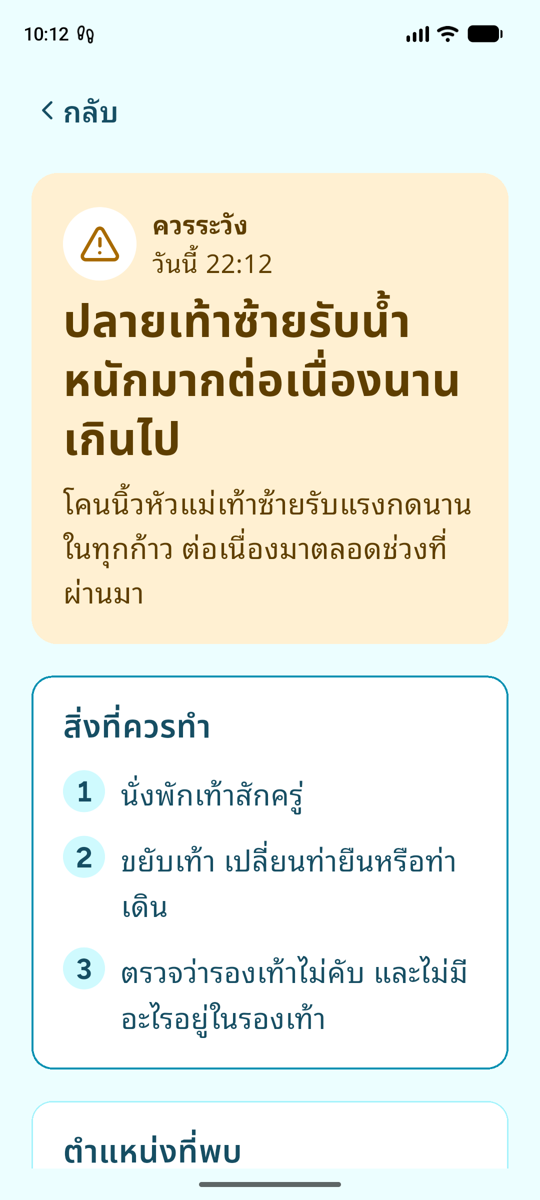
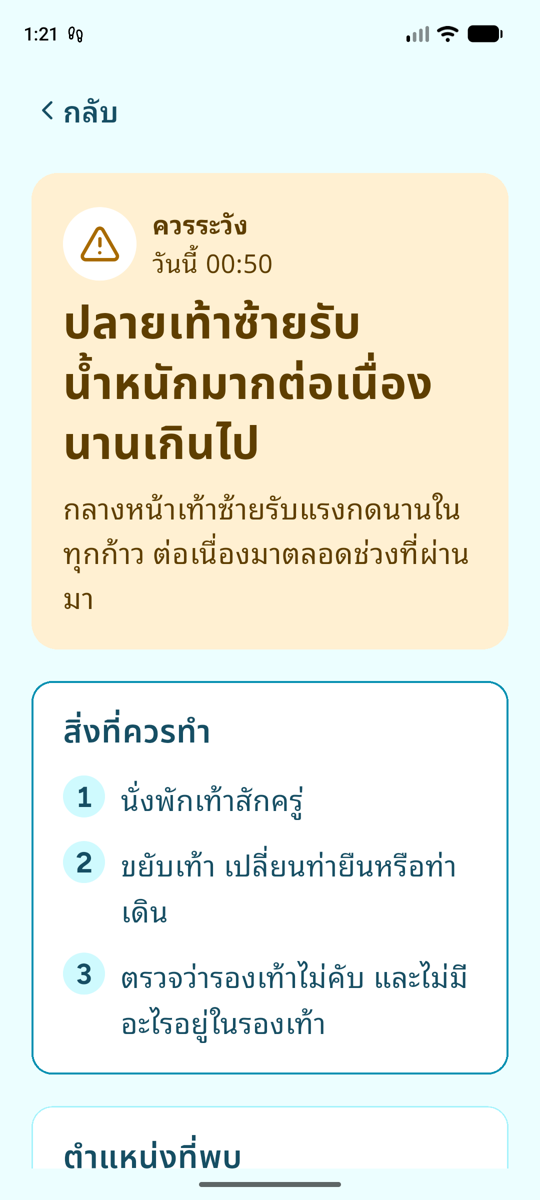
S10: docs for the title follow-up (BACKLOG 60/69, DESIGN-SPEC decision 22, mobile/CLAUDE.md "Thai line breaks"); report 041: cause of the "รับน้ำ / หนัก" screenshot, every title split found, guard extended, release 1.0.0+6 rebuilt from 3789261 (SHA-256 5d9e3b13…bcfbc), smoke check also looks at the 

diff --git a/docs/reports/041-flutter-wrapup.md b/docs/reports/041-flutter-wrapup.md
@@ -31,7 +31,13 @@ Plan file: `~/.claude/plans/s10-s10-wrap-up-before-rippling-moon.md`.
 - **Docs:** PROGRESS, mobile/CLAUDE.md, SESSIONS (status rows, schedule,
   S10b row and entry, SR checklist), DESIGN-SPEC §6, §11.9, decisions 22
   and 32, DATA-CONTRACT addendum.
-- **Release 1.0.0+6** built from 4885b9b. It passed
+- **Follow-up 2026-11-04 (3789261):** short words in titles kept whole
+  too. The first screenshots showed "รับน้ำ / หนักมาก" in the PTI title;
+  they predated 537f591, and a retake on 4885b9b showed it fixed. Listing
+  every title line break found other splits ("อุ่น / กว่า", "ปลาย /
+  เท้า", "เกิน / ไป", "เชื่อม / ต่อ", "ค่อน / ข้าง", "เหลือ / น้อย"),
+  now joined. The guard covers every title style.
+- **Release 1.0.0+6** rebuilt from 3789261. It passed
   `check_release_resources.sh` and the model slot is empty.
 - **Note 10 smoke check: waiting on user.** Ask before plugging in (below).
 
@@ -49,6 +55,7 @@ Plan file: `~/.claude/plans/s10-s10-wrap-up-before-rippling-moon.md`.
 | 1858d17, 537f591 | Found on the emulator: "ต่อ / เนื่อง", "รับน้ำ / หนัก" and "จุด / เดียว" joined in the pressure alert copy and Home lines; goldens |
 | e53ddde | Docs wording for those |
 | 4885b9b | Spec review fixes 1–3 (below); DESIGN-SPEC §11.9 one sentence |
+| 3789261 | Titles (follow-up, below): `keepTogetherInTitle` + `titleParts`, `FootZone/FootRegion.titleTh`; "อุ่นกว่า", "เกินไป", "ค่อนข้าง", "เชื่อมต่อ", "เหลือน้อย" joined (also "อุ่นกว่า"/"เกินไป" in the same alerts' detail and Home lines, and the My feet banners); the guard covers every title style and fails a break inside a short table phrase; goldens (25 + 13) |
 
 ## Thai line breaks: how and what was learned
 
@@ -61,10 +68,10 @@ Plan file: `~/.claude/plans/s10-s10-wrap-up-before-rippling-moon.md`.
   งมากตอนเดิน". A joiner inside a word cuts the Thai around it into pieces
   the dictionary cannot read, so Flutter falls back to breaking by
   character. A joined phrase wider than the line does the same.
-  - Site names in titles (28–32 px, up to 410 px wide at 1.88×) therefore
-    stay plain.
-  - So do names that are a whole `Text` on their own: rows, table cells,
-    chart labels, TalkBack labels.
+  - So a long name joined whole cannot go in a title (see "Titles"
+    below).
+  - Names that are a whole `Text` on their own stay plain: rows, table
+    cells, chart labels, TalkBack labels.
 - **Guard test:** `copy only breaks lines between words`.
   - It runs every alert copy (8 codes × 2 feet × 8 sites) at widths
     260–400 px and scales 1.0, 1.3 and 1.88.
@@ -99,12 +106,52 @@ Plan file: `~/.claude/plans/s10-s10-wrap-up-before-rippling-moon.md`.
   phrase to `thaiWords`, wrap it where the copy is composed, and add it to
   `thai_line_break_test.dart`.
 
+### Titles (follow-up 2026-11-04, 3789261)
+
+- **Cause of the user's finding:** `emu-alert-detail-pti.png` showed
+  "ปลายเท้าซ้ายรับน้ำ / หนักมาก…". It was taken at 22:12 on 2 Nov, before
+  537f591 (22:19) joined "น้ำหนัก". Retaken on 4885b9b: "ปลายเท้าซ้ายรับ /
+  น้ำหนักมากต่อเนื่อง / นานเกินไป". The word-boundary guard could not have
+  caught it: "น้ำ|หนัก" is two words to the dictionary.
+- **Every title line break listed** (each alert code × foot × site, in
+  `pageTitle`, `bodyStrong` and `button`, 260–400 px, scales 1.0/1.3/1.88).
+  Splits inside a short word found and joined: "อุ่น / กว่า" (TEMP_DELTA),
+  "ปลาย / เท้า" and "ส้น / เท้า" (region names, plain in titles until
+  now), "เกิน / ไป" (PTI, LOAD_CONCENTRATION), "ค่อน / ข้าง"
+  (PRESSURE_WATCH), "เชื่อม / ต่อ" (DEVICE_LOST), "เหลือ / น้อย"
+  (BATTERY_LOW), "ด้าน / นอก"; in My feet, "เท้า / ซ้าย" in
+  "ยังไม่ได้รับข้อมูลเท้าซ้าย".
+- **Long names in titles:** joined whole they are wider than the line at
+  1.88× (Flutter then breaks them by letter: "โคนนิ้วหัวแม่เ / ท้า",
+  "แผ่นรองเท้ / า", found by the guard). `keepTogetherInTitle` joins their
+  parts instead, so they break only at "โคน / นิ้วหัวแม่เท้า", "ขอบเท้า /
+  ด้านนอก", "ส้นเท้า / ด้านนอก". "แผ่นรองเท้า" stays plain: "รองเท้า" is
+  one word, so it can only break as "แผ่น / รองเท้า". A side stays a
+  separate word ("ปลายเท้า / ซ้าย"): "ปลายเท้าซ้าย" joined is wider than
+  260 px at 1.88×.
+- **Guard extended** (`copy only breaks lines between words`):
+  - every alert title in the alert detail (`pageTitle` 28), Alerts list
+    (`bodyStrong` 18) and My feet banner (`button` 18, 216–340 px: the
+    banner text is the screen less 144 dp, 216 on a 360 dp phone, 267 on
+    the Note 10); Home's status titles (`statusTitle` 32) and the My feet
+    banner titles, including the Temperature one for every site;
+  - titles must also never break inside a short (≤ 3-word) `thaiWords`
+    phrase, read word by word, longest first; a control (the PTI title
+    without joiners) proves it catches "รับน้ำ / หนัก".
+- **Same-alert body lines:** "อุ่นกว่า" and "เกินไป" are joined in the
+  TEMP_DELTA detail and the PTI / LOAD_CONCENTRATION Home lines too, as
+  "น้ำหนัก" is. Other body copy is unchanged (S10b).
+- Visible copy unchanged (joiners are invisible). Goldens: 25 changed at
+  the title step, 13 at the body step. Reviewed side by side: the fixed
+  breaks (e.g. TEMP_DELTA at 200 %: "เท้าขวา / อุ่นกว่า / เท้าซ้าย") and
+  the ~2 px joiner shift; nothing else.
+
 ## Checks
 
 | Check | Result |
 |---|---|
 | `flutter analyze` | No issues |
-| `flutter test` | **1107 passed** (166 goldens) |
+| `flutter test` | **1107 passed** (166 goldens), again at 3789261 |
 | Goldens reviewed | Changed: alert details (all), alerts list, Home (100 / 130xl / 200), My feet watch / temp_rest. Text and line breaks reviewed side by side against main; the only change besides the fixed breaks is the ~2 px line shift above. New: 22 goldens at 130 % |
 | `thresholds.json` copies | Byte-identical (`cmp`) |
 | FLUTTER-PLAN §6 rule 12 | `quietNotifyMin` read from thresholds; no literal |
@@ -115,7 +162,7 @@ Plan file: `~/.claude/plans/s10-s10-wrap-up-before-rippling-moon.md`.
 | Model slot | `assets/models/` holds only README.md |
 | Emulator, quiet window (`MOCK=watch`, sound on) | `pressurePeak #5 (sound)`, then `pressurePti #9 (silent)`, `#10 (silent)` for the same foot within 2 min. Tray shows all three |
 | Emulator, notification | Header "SmartInsole", colour `0xff155e75`; status-bar icons are footprints; launcher icon is the new footprints icon. The shade's round header icon still showed the Flutter logo: SystemUI's cached icon from the earlier install (the debug APK's `application-icon-*` all resolve to `mipmap-anydpi-v26/ic_launcher.xml`). The Note 10 check confirms it on a clean install-over |
-| Emulator, screens | Home at "ใหญ่", Alerts list, PTI alert detail, My feet Pressure: site names whole, no split words in the joined phrases (screenshots below) |
+| Emulator, screens | Home at "ใหญ่", Alerts list, PTI alert detail, My feet Pressure: site names whole, no split words in the joined phrases (screenshots below). Alerts list and PTI detail retaken at 3789261 (2026-11-04): title "ปลายเท้าซ้ายรับ / น้ำหนักมากต่อเนื่อง / นานเกินไป" |
 
 Note on the emulator: its saved Settings had **sound off** from an earlier
 session, so the first run's notifications were all silent. That is
@@ -132,12 +179,13 @@ taps timed out on this build, so it was not opened on the emulator).
 
 | Build | Version | SHA-256 | Size | Built from |
 |---|---|---|---|---|
[2 lines of base64/hex data omitted]
 
-- Two earlier +6 builds were never installed anywhere and are replaced by
-  the build above: one from f1736bf (`5a5bb361…3e4f`), before the
-  emulator copy fixes, and one from e53ddde (`d8fb5ed2…4259`), before the
-  spec-review fixes.
+- Three earlier +6 builds were never installed anywhere and are replaced
+  by the build above: from f1736bf (`5a5bb361…3e4f`), before the emulator
+  copy fixes; from e53ddde (`d8fb5ed2…4259`), before the spec-review
+  fixes; and from 4885b9b (`76b18d3f…3552`), before the title follow-up.
+- aapt badging: label `SmartInsole`, versionCode 6, versionName 1.0.0.
 - `tool/check_release_resources.sh` passed (`ic_stat_foot_check`,
   `ic_stat_foot_alert`). `assets/models/` holds only its README.
 - **Not installed yet:** waiting on the smoke check.
@@ -155,8 +203,12 @@ decisions 22 and 32, Appendix A; DATA-CONTRACT §8; FLUTTER-PLAN §6 rules 5,
 | 3 | minor | `mobile/lib/notify/alert_notification_service.dart:139` | DESIGN-SPEC §11.9 "of the last one that **sounded**" | `claimSound` records the alert as sounded before `show()`; if posting throws, a later alert within 2 min for that foot is silent though nothing sounded | **Fixed** in 4885b9b: `NotificationQuietWindow.release` undoes the claim on failure; test "a failed post does not silence the next alert"; §11.9 says so. Alerts raised together with the failed one are already judged (decided before any await, by design) |
 
 Spec gaps the reviewer noted (no code change):
-- DESIGN-SPEC does not say whether TalkBack labels may hold U+2060. Now
-  plain everywhere; mobile/CLAUDE.md states the rule.
+- DESIGN-SPEC does not say whether TalkBack labels may hold U+2060. The
+  labels the app writes itself are plain; mobile/CLAUDE.md states the
+  rule. Correction (2026-11-04, seen in the emulator's accessibility
+  tree): labels that merge the visible text, such as Home's status card
+  and the Alerts list cards, do carry the joiners. U+2060 is a format
+  character, so TalkBack is expected to skip it; not heard yet (Leftovers).
 - The adaptive icon is API 26+ only; Android 7 keeps Flutter's PNG
   (Leftovers).
 - What counts as "sounded" when the user mutes the sound channel in
@@ -176,11 +228,16 @@ clear`.
 3. Press `t` on a board: one TEMP_DELTA alert is **heard**.
    - The notification header reads "SmartInsole" with the footprints
      small icon. No white blob, no Flutter logo.
+   - Pull the shade down and look at the **round header icon** next to
+     the app name too, not only the status bar. If it still shows the
+     Flutter logo after a launcher refresh, report it (the emulator kept
+     SystemUI's cached icon from the earlier install).
    - A second alert for the same foot within 2 min (e.g. `p` right after)
      is in the tray, **silent**.
 4. Open the TEMP_DELTA detail and check the Samsung font: site names whole,
-   no boxes or missing glyphs, and the sites line breaks only after "· ".
-   Look at Home and My feet the same way.
+   no boxes or missing glyphs, the title not split inside a word ("อุ่น /
+   กว่า"), and the sites line breaks only after "· ". Look at Home and My
+   feet the same way.
 5. Researcher › start a TEST- capture. Trial 00 starts and saves.
 
 ## Leftovers
@@ -193,6 +250,9 @@ clear`.
   helper.
 - **Joiner line-height shift:** about 2 px per joined line (fallback font
   metrics). Cosmetic; check on the Note 10.
+- **TalkBack with joined text:** merged labels (Home status card, Alerts
+  list cards) hold U+2060. Expected silent, not listened to. After study
+  unless SR turns TalkBack on.
 - **BACKLOG 54 tab-bar labels, 47, 50:** after study (no small safe fix;
   volunteers are 21–30, so large text is unlikely on study days).
 - **Duplicate PTI notifications:** one PTI per zone, so two zones in the

diff --git a/docs/design/DESIGN-SPEC.md b/docs/design/DESIGN-SPEC.md
@@ -673,7 +673,7 @@ Earlier design-chat decisions: style D for the whole app; plain Thai first with 
 19. Answer-only is titled "ตอบคำถาม" (§11.3).
 20. The Capture hint chip shows on the two sole views only (§11.2).
 21. A foot-check finding is read once Something found opens for that check, from any entry: right after "บันทึก", from "ดูสิ่งที่ควรทำ", or from Alerts (§7.2, decision 7).
-22. Phrases Thai word breaking would split inside running text are kept together with word joiners (U+2060): the quoted "มี / ไม่แน่ใจ", "ตั้งเวลา", "แพทย์ดู". **S10:** app-wide for volunteer-facing text (`mobile/lib/text/thai_break.dart`, `keepTogether`): site and region names, "เท้าซ้าย/ขวา", "ตอนเดิน", "หรือไม่", "ต่อเนื่อง", "น้ำหนัก" and "จุดเดียว" inside running text on Home, Alerts, My feet and notifications, joined only between words; a no-break space before "·" in lists. Site names in titles, and names that stand alone, stay plain (a joined phrase wider than the line breaks the rest by character). Display only: stored and exported text never carries a joiner.
+22. Phrases Thai word breaking would split inside running text are kept together with word joiners (U+2060): the quoted "มี / ไม่แน่ใจ", "ตั้งเวลา", "แพทย์ดู". **S10:** app-wide for volunteer-facing text (`mobile/lib/text/thai_break.dart`, `keepTogether`): site and region names, "เท้าซ้าย/ขวา", "ตอนเดิน", "หรือไม่", "ต่อเนื่อง", "น้ำหนัก" and "จุดเดียว" inside running text on Home, Alerts, My feet and notifications, joined only between words; a no-break space before "·" in lists. Names that stand alone stay plain. In titles short words are joined too, and a long name breaks only between its parts ("โคน / นิ้วหัวแม่เท้า", "ขอบเท้า / ด้านนอก", "ส้นเท้า / ด้านนอก"): joined whole it is wider than the line at the largest text, and a joined phrase wider than the line breaks the rest by character. Display only: stored and exported text never carries a joiner.
 Also: a real system notification, compare with the newest earlier photo, several checks a day, automatic camera with a switch, no gallery, 1600 px / q85 photos, draft photo history.
 
 ### Decisions (user, 2026-10-29, S8D)

diff --git a/mobile/CLAUDE.md b/mobile/CLAUDE.md
@@ -264,9 +264,16 @@ site name or strand a short last word. `lib/text/thai_break.dart`
   against `TextPainter.getWordBoundary`). A joiner inside a word makes
   Flutter break plain words nearby ("สู / งมาก").
 - Only inside running text, and only phrases narrower than the narrowest
-  line at 1.88 × (about 260 px in `body`). Site names in titles, and
-  names that are a whole `Text`, stay plain (`FootZone.nameTh`;
-  `displayTh` is the joined form).
+  line at 1.88 × (about 260 px in `body`). Names that are a whole `Text`
+  stay plain (`FootZone.nameTh`; `displayTh` is the joined form).
+- **Titles** (alert detail 28 px, Alerts list and My feet banner 18 px
+  bold, Home status 32 px): short words are joined too; a long name
+  joined whole is wider than the line at 1.88 × on a 360 dp phone, so it
+  goes through `keepTogetherInTitle` (`titleParts`: "โคน / นิ้วหัวแม่เท้า",
+  "ขอบเท้า / ด้านนอก", "ส้นเท้า / ด้านนอก"; `FootZone/FootRegion.titleTh`).
+  "แผ่นรองเท้า" stays plain for the same reason. The guard test holds
+  titles to more than word boundaries: no break inside any short
+  `thaiWords` phrase, joined or not.
 - **Display only.** Never in anything stored, exported or captured; the
   test checks `lib/storage`, `lib/capture`, `lib/ble`, `lib/device` and
   `lib/gait` never reference it.
@@ -277,7 +284,9 @@ site name or strand a short last word. `lib/text/thai_break.dart`
   wrap it in `keepTogether` where the copy is composed, add it to
   `test/footcheck/thai_line_break_test.dart`, run
   `flutter test test/text test/footcheck`, then regenerate and review the
-  goldens. The "only breaks between words" test covers all alert copy.
+  goldens. The "only breaks between words" test covers all alert copy
+  and every title; to list a title's actual line breaks, lay it out with
+  `TextPainter` at the guard's widths and print `getLineBoundary`.
 
 ## BLE parsing rules
 
